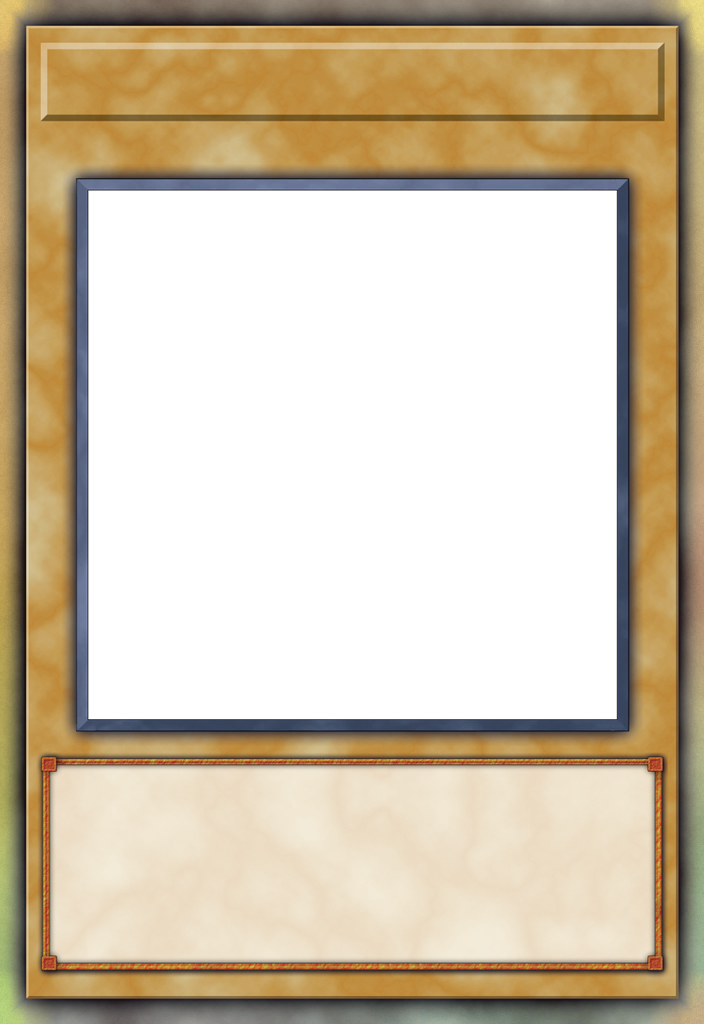
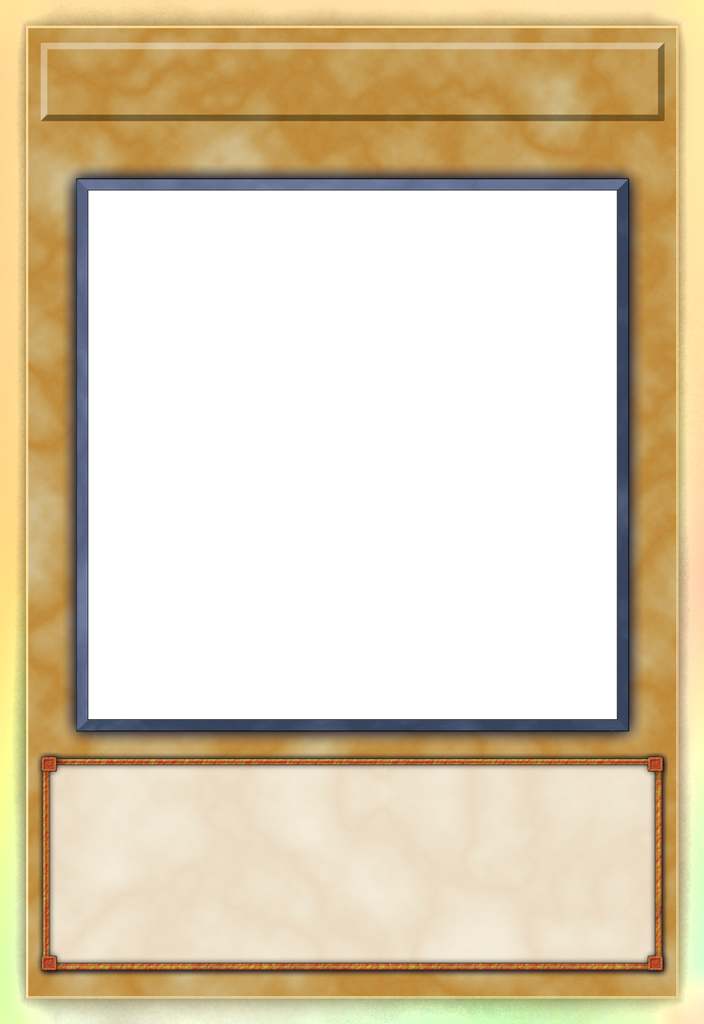
Lighten OF Gradient rim luminosity toward genuine Overframe.
Raise HSV stop values, mix floor, and RimValueLift so multi-hue chrome reads brighter without white wash or widening the 28px border band.

Changed region(s): [[0.0, 0.0, 1.0, 1.0]]

diff --git a/src/Floowan.Core/Imaging/OfGradientBorderComposer.cs b/src/Floowan.Core/Imaging/OfGradientBorderComposer.cs
@@ -35,6 +35,18 @@ public static class OfGradientBorderComposer
     public const float CornerRadiusPx = 56f;
 
     /// <summary>
+    /// HSV Value multiplier applied to finished rim pixels so multi-hue chrome reads
+    /// closer to genuine OF luminosity (ref rim V≈0.75+) without desaturating to white.
+    /// </summary>
+    public const float RimValueLift = 1.22f;
+
+    /// <summary>
+    /// Minimum replace mix inside the outer chrome band (avoids dark solid chrome
+    /// showing through mid-band and muting the iridescence).
+    /// </summary>
+    public const float RimMixFloor = 0.58f;
+
+    /// <summary>
     /// Builds an OF-gradient frame from a solid template. Caller owns the returned image.
     /// </summary>
     public static Image<Rgba32> Apply(Image<Rgba32> solidFrame, CardFrameStyle ofGradientStyle)
@@ -92,8 +104,8 @@ public static class OfGradientBorderComposer
                 cornerT *= bandGate;
                 var marginT = Math.Clamp(0.40f * rimT + 0.35f * shaftT + 0.35f * cornerT, 0f, 1f);
 
-                // No BodyTint on the plate — mix is purely from outer-band strength.
-                var mix = Math.Clamp(marginT * palette.ReplaceBoost, 0f, 0.95f);
+                // High floor so dark solid chrome doesn't mute the luminous multi-hue rim.
+                var mix = Math.Clamp(RimMixFloor + (1f - RimMixFloor) * marginT * palette.ReplaceBoost, 0f, 0.96f);
                 if (mix < 0.08f)
                     continue;
 
@@ -102,6 +114,8 @@ public static class OfGradientBorderComposer
                 var target = SampleIridescentColor(palette, angle01, rimT, shaftT, cornerT, x, y);
 
                 var outPix = LerpRgb(src, target, mix);
+                // Final luminous lift — chroma kept via HSV (sat floor in BoostChroma).
+                outPix = BoostChroma(outPix, satMul: 0.96f, valMul: RimValueLift);
 
                 if (palette.UseHoloGrid)
                     outPix = ApplyHoloGrid(outPix, x, y, marginT, angle01);
@@ -159,183 +173,184 @@ public static class OfGradientBorderComposer
 
     private static BorderPalette ResolvePalette(CardFrameStyle baseStyle) => baseStyle switch
     {
-        // Linkage — teal/seafoam base + full rainbow shimmer (sampled perimeter hues).
+        // Linkage — teal/seafoam base + full rainbow shimmer (hot, luminous stops).
         CardFrameStyle.Spell => new(
-            Mid: new Rgba32(28, 130, 135, 255),
+            Mid: new Rgba32(48, 165, 170, 255),
             Stops:
             [
-                new(175f, 0.72f, 0.78f), // cyan-teal
-                new(155f, 0.65f, 0.82f), // seafoam
-                new(195f, 0.45f, 0.80f), // soft cyan
-                new(280f, 0.35f, 0.78f), // purple shimmer
-                new(330f, 0.40f, 0.85f), // pink
-                new(45f, 0.45f, 0.88f),  // warm yellow
-                new(150f, 0.70f, 0.70f), // green-teal
-                new(185f, 0.55f, 0.75f), // aqua
+                new(175f, 0.55f, 0.92f), // cyan-teal hot
+                new(155f, 0.50f, 0.94f), // seafoam
+                new(195f, 0.35f, 0.95f), // soft cyan flash
+                new(280f, 0.30f, 0.90f), // purple shimmer
+                new(330f, 0.35f, 0.93f), // pink
+                new(45f, 0.40f, 0.95f),  // warm yellow
+                new(150f, 0.55f, 0.88f), // green-teal
+                new(185f, 0.40f, 0.94f), // aqua
             ],
             UseHoloGrid: true,
-            BodyTint: 0.36f,
-            ReplaceBoost: 1.08f,
+            BodyTint: 0f,
+            ReplaceBoost: 1.12f,
             ShaftBoost: 0.95f,
             CornerBoost: 1.05f,
-            ShimmerAmount: 0.92f),
+            ShimmerAmount: 0.95f),
 
-        // Magician of Black Chaos — cyan/teal corners, deeper blue mid (colored, not white).
+        // Magician of Black Chaos — luminous cyan/teal corners (colored, not white).
         CardFrameStyle.Ritual or CardFrameStyle.PendulumRitual => new(
-            Mid: new Rgba32(28, 48, 78, 255),
+            Mid: new Rgba32(40, 70, 105, 255),
             Stops:
             [
-                new(195f, 0.55f, 0.55f), // blue-grey edge
-                new(185f, 0.70f, 0.85f), // bright cyan
-                new(170f, 0.65f, 0.80f), // teal
-                new(210f, 0.40f, 0.70f), // periwinkle
-                new(160f, 0.50f, 0.75f), // seafoam corner
-                new(200f, 0.60f, 0.78f), // electric cyan
+                new(195f, 0.40f, 0.82f), // blue edge (brighter midtones)
+                new(185f, 0.55f, 0.96f), // bright cyan hot
+                new(170f, 0.50f, 0.93f), // teal
+                new(210f, 0.30f, 0.88f), // periwinkle
+                new(160f, 0.40f, 0.94f), // seafoam corner
+                new(200f, 0.45f, 0.95f), // electric cyan
             ],
             UseHoloGrid: false,
-            BodyTint: 0.26f,
-            ReplaceBoost: 1.12f,
+            BodyTint: 0f,
+            ReplaceBoost: 1.15f,
             ShaftBoost: 0.80f,
             CornerBoost: 1.40f,
-            ShimmerAmount: 0.70f),
+            ShimmerAmount: 0.85f),
 
-        // Chaos Soldier — chromatic pale blue/cyan shafts (not pure white).
+        // Chaos Soldier / Effect — luminous cyan shafts + prismatic flashes.
         CardFrameStyle.Effect or CardFrameStyle.PendulumEffect => new(
-            Mid: new Rgba32(75, 70, 95, 255),
+            Mid: new Rgba32(95, 100, 130, 255),
             Stops:
             [
-                new(210f, 0.35f, 0.70f), // pale blue
-                new(190f, 0.45f, 0.78f), // cyan
-                new(175f, 0.40f, 0.72f), // teal-blue
-                new(40f, 0.30f, 0.75f),  // warm gold leak (art-integrated)
-                new(220f, 0.30f, 0.68f), // periwinkle
-                new(185f, 0.50f, 0.82f), // bright cyan shaft
+                new(210f, 0.28f, 0.90f), // pale blue
+                new(190f, 0.38f, 0.95f), // cyan hot
+                new(175f, 0.35f, 0.92f), // teal-blue
+                new(40f, 0.28f, 0.93f),  // warm gold leak
+                new(220f, 0.25f, 0.90f), // periwinkle
+                new(185f, 0.42f, 0.96f), // bright cyan shaft flash
+                new(320f, 0.28f, 0.92f), // pink prismatic
             ],
             UseHoloGrid: false,
-            BodyTint: 0.16f,
-            ReplaceBoost: 1.10f,
+            BodyTint: 0f,
+            ReplaceBoost: 1.15f,
             ShaftBoost: 1.25f,
-            CornerBoost: 1.05f,
-            ShimmerAmount: 0.65f),
+            CornerBoost: 1.10f,
+            ShimmerAmount: 0.88f),
 
         CardFrameStyle.Trap or CardFrameStyle.Token or CardFrameStyle.PendulumToken => new(
-            Mid: new Rgba32(95, 35, 105, 255),
+            Mid: new Rgba32(120, 55, 130, 255),
             Stops:
             [
-                new(310f, 0.55f, 0.75f), // magenta
-                new(280f, 0.50f, 0.70f), // purple
-                new(330f, 0.45f, 0.82f), // pink
-                new(200f, 0.30f, 0.70f), // cool cyan leak
-                new(340f, 0.40f, 0.78f),
+                new(310f, 0.45f, 0.90f),
+                new(280f, 0.40f, 0.88f),
+                new(330f, 0.38f, 0.94f),
+                new(200f, 0.28f, 0.90f),
+                new(340f, 0.35f, 0.92f),
             ],
             UseHoloGrid: false,
-            BodyTint: 0.30f,
-            ReplaceBoost: 1.08f,
+            BodyTint: 0f,
+            ReplaceBoost: 1.12f,
             ShaftBoost: 1.00f,
             CornerBoost: 1.15f,
-            ShimmerAmount: 0.75f),
+            ShimmerAmount: 0.85f),
 
         CardFrameStyle.Fusion or CardFrameStyle.PendulumFusion => new(
-            Mid: new Rgba32(85, 40, 125, 255),
+            Mid: new Rgba32(110, 60, 150, 255),
             Stops:
             [
-                new(280f, 0.55f, 0.75f),
-                new(300f, 0.45f, 0.80f),
-                new(260f, 0.40f, 0.70f),
-                new(320f, 0.35f, 0.82f),
-                new(200f, 0.25f, 0.72f),
+                new(280f, 0.45f, 0.90f),
+                new(300f, 0.38f, 0.93f),
+                new(260f, 0.35f, 0.88f),
+                new(320f, 0.30f, 0.94f),
+                new(200f, 0.25f, 0.90f),
             ],
             UseHoloGrid: false,
-            BodyTint: 0.28f,
-            ReplaceBoost: 1.08f,
+            BodyTint: 0f,
+            ReplaceBoost: 1.12f,
             ShaftBoost: 1.00f,
             CornerBoost: 1.20f,
-            ShimmerAmount: 0.70f),
+            ShimmerAmount: 0.82f),
 
         CardFrameStyle.Synchro or CardFrameStyle.PendulumSynchro => new(
-            Mid: new Rgba32(140, 145, 160, 255),
+            Mid: new Rgba32(165, 170, 185, 255),
             Stops:
             [
-                new(210f, 0.25f, 0.85f), // cool silver-blue
-                new(45f, 0.20f, 0.88f),  // warm silver
-                new(280f, 0.15f, 0.82f), // lilac shimmer
-                new(180f, 0.22f, 0.86f), // aqua silver
-                new(0f, 0.12f, 0.90f),   // soft rose-silver
+                new(210f, 0.22f, 0.95f),
+                new(45f, 0.18f, 0.96f),
+                new(280f, 0.15f, 0.93f),
+                new(180f, 0.20f, 0.95f),
+                new(0f, 0.12f, 0.96f),
             ],
             UseHoloGrid: false,
-            BodyTint: 0.26f,
-            ReplaceBoost: 1.05f,
+            BodyTint: 0f,
+            ReplaceBoost: 1.10f,
             ShaftBoost: 1.00f,
             CornerBoost: 1.10f,
-            ShimmerAmount: 0.60f),
+            ShimmerAmount: 0.75f),
 
         CardFrameStyle.Xyz or CardFrameStyle.PendulumXyz => new(
-            Mid: new Rgba32(18, 20, 32, 255),
+            Mid: new Rgba32(35, 40, 55, 255),
             Stops:
             [
-                new(210f, 0.55f, 0.75f),
-                new(190f, 0.50f, 0.80f),
-                new(260f, 0.35f, 0.70f),
-                new(175f, 0.45f, 0.72f),
-                new(220f, 0.40f, 0.78f),
+                new(210f, 0.45f, 0.90f),
+                new(190f, 0.40f, 0.94f),
+                new(260f, 0.30f, 0.88f),
+                new(175f, 0.38f, 0.90f),
+                new(220f, 0.35f, 0.93f),
             ],
             UseHoloGrid: true,
-            BodyTint: 0.24f,
-            ReplaceBoost: 1.10f,
+            BodyTint: 0f,
+            ReplaceBoost: 1.15f,
             ShaftBoost: 1.10f,
             CornerBoost: 1.20f,
-            ShimmerAmount: 0.68f),
+            ShimmerAmount: 0.82f),
 
         CardFrameStyle.Link => new(
-            Mid: new Rgba32(22, 48, 72, 255),
+            Mid: new Rgba32(35, 70, 100, 255),
             Stops:
             [
-                new(185f, 0.70f, 0.80f),
-                new(170f, 0.60f, 0.75f),
-                new(200f, 0.50f, 0.78f),
-                new(280f, 0.30f, 0.72f),
-                new(150f, 0.55f, 0.70f),
-                new(45f, 0.25f, 0.80f),
+                new(185f, 0.55f, 0.94f),
+                new(170f, 0.48f, 0.90f),
+                new(200f, 0.40f, 0.93f),
+                new(280f, 0.28f, 0.88f),
+                new(150f, 0.45f, 0.88f),
+                new(45f, 0.25f, 0.92f),
             ],
             UseHoloGrid: true,
-            BodyTint: 0.32f,
-            ReplaceBoost: 1.10f,
+            BodyTint: 0f,
+            ReplaceBoost: 1.12f,
             ShaftBoost: 1.05f,
             CornerBoost: 1.15f,
-            ShimmerAmount: 0.80f),
+            ShimmerAmount: 0.90f),
 
         CardFrameStyle.Normal or CardFrameStyle.PendulumNormal => new(
-            Mid: new Rgba32(170, 135, 55, 255),
+            Mid: new Rgba32(190, 155, 75, 255),
             Stops:
             [
-                new(45f, 0.65f, 0.88f),  // gold
-                new(35f, 0.55f, 0.85f),  // amber
-                new(55f, 0.40f, 0.90f),  // yellow
-                new(20f, 0.45f, 0.82f),  // peach
-                new(200f, 0.20f, 0.75f), // cool leak
+                new(45f, 0.55f, 0.95f),
+                new(35f, 0.45f, 0.93f),
+                new(55f, 0.35f, 0.96f),
+                new(20f, 0.40f, 0.92f),
+                new(200f, 0.20f, 0.90f),
             ],
             UseHoloGrid: false,
-            BodyTint: 0.26f,
-            ReplaceBoost: 1.05f,
+            BodyTint: 0f,
+            ReplaceBoost: 1.10f,
             ShaftBoost: 1.00f,
             CornerBoost: 1.10f,
-            ShimmerAmount: 0.65f),
+            ShimmerAmount: 0.80f),
 
         _ => new(
-            Mid: new Rgba32(55, 70, 100, 255),
+            Mid: new Rgba32(80, 95, 125, 255),
             Stops:
             [
-                new(190f, 0.45f, 0.75f),
-                new(175f, 0.40f, 0.70f),
-                new(210f, 0.35f, 0.72f),
-                new(40f, 0.25f, 0.75f),
+                new(190f, 0.38f, 0.92f),
+                new(175f, 0.35f, 0.90f),
+                new(210f, 0.30f, 0.90f),
+                new(40f, 0.25f, 0.92f),
             ],
             UseHoloGrid: false,
-            BodyTint: 0.22f,
-            ReplaceBoost: 1.08f,
+            BodyTint: 0f,
+            ReplaceBoost: 1.12f,
             ShaftBoost: 1.10f,
             CornerBoost: 1.10f,
-            ShimmerAmount: 0.65f),
+            ShimmerAmount: 0.82f),
     };
 
     /// <summary>
@@ -357,14 +372,14 @@ public static class OfGradientBorderComposer
         var iri = LerpRgb(shimmer, shimmer2, 0.35f);
 
         // Body mid stays type-colored; rim pulls strongly toward multi-hue.
-        var rimPull = Math.Clamp(palette.ShimmerAmount * (0.35f + 0.65f * rimT), 0f, 1f);
+        var rimPull = Math.Clamp(palette.ShimmerAmount * (0.55f + 0.45f * rimT), 0f, 1f);
         var c = LerpRgb(palette.Mid, iri, rimPull);
 
-        // Shafts: same hue family, slightly higher value, keep saturation (chromatic, not white).
+        // Shafts: same hue family, higher value, keep saturation (chromatic, not white).
         if (shaftT > 0.05f)
         {
             var shaftHue = SampleHueStops(palette.Stops, Fract(angle01 + 0.08f));
-            shaftHue = BoostChroma(shaftHue, satMul: 1.05f, valMul: 1.08f);
+            shaftHue = BoostChroma(shaftHue, satMul: 1.02f, valMul: 1.14f);
             c = LerpRgb(c, shaftHue, Math.Clamp(shaftT * 0.55f, 0f, 0.75f));
         }
 
@@ -372,13 +387,13 @@ public static class OfGradientBorderComposer
         if (cornerT > 0.05f)
         {
             var cornerHue = SampleHueStops(palette.Stops, Fract(angle01 * 0.5f + 0.25f));
-            cornerHue = BoostChroma(cornerHue, satMul: 1.12f, valMul: 1.10f);
+            cornerHue = BoostChroma(cornerHue, satMul: 1.05f, valMul: 1.16f);
             c = LerpRgb(c, cornerHue, Math.Clamp(cornerT * 0.50f, 0f, 0.70f));
         }
 
-        // Soft mottle for premium foil grain (value only, chroma preserved via HSV).
+        // Soft mottle for premium foil grain — bias brighter (genuine OF hot flashes).
         var mottle = SoftMottle(x, y);
-        c = BoostChroma(c, satMul: 1f, valMul: 0.94f + 0.10f * mottle);
+        c = BoostChroma(c, satMul: 1f, valMul: 1.06f + 0.10f * mottle);
         return c;
     }
 
@@ -419,9 +434,10 @@ public static class OfGradientBorderComposer
         RgbToHsv(c, out var h, out var s, out var v);
         s = Math.Clamp(s * satMul, 0f, 1f);
         v = Math.Clamp(v * valMul, 0f, 1f);
-        // Floor saturation so we never collapse to grey/white glow.
-        if (s < 0.12f)
-            s = 0.12f;
+        // Floor saturation so we never collapse to grey/white glow — but allow
+        // slightly lower sat on hot high-V flashes (genuine OF prismatic highlights).
+        if (s < 0.10f)
+            s = 0.10f;
         return HsvToRgb(h, s, v);
     }
 
@@ -436,10 +452,10 @@ public static class OfGradientBorderComposer
         // Grid lines pick up the same multi-hue (brighter, still chromatic).
         var grid = SampleHueStops(
             [
-                new(175f, 0.35f, 0.92f),
-                new(330f, 0.30f, 0.90f),
-                new(50f, 0.30f, 0.92f),
-                new(200f, 0.28f, 0.90f),
+                new(175f, 0.30f, 0.98f),
+                new(330f, 0.28f, 0.96f),
+                new(50f, 0.28f, 0.98f),
+                new(200f, 0.25f, 0.96f),
             ],
             angle01);
         var strength = (0.22f + 0.40f * marginT) * (onV && onH ? 1f : 0.70f);
